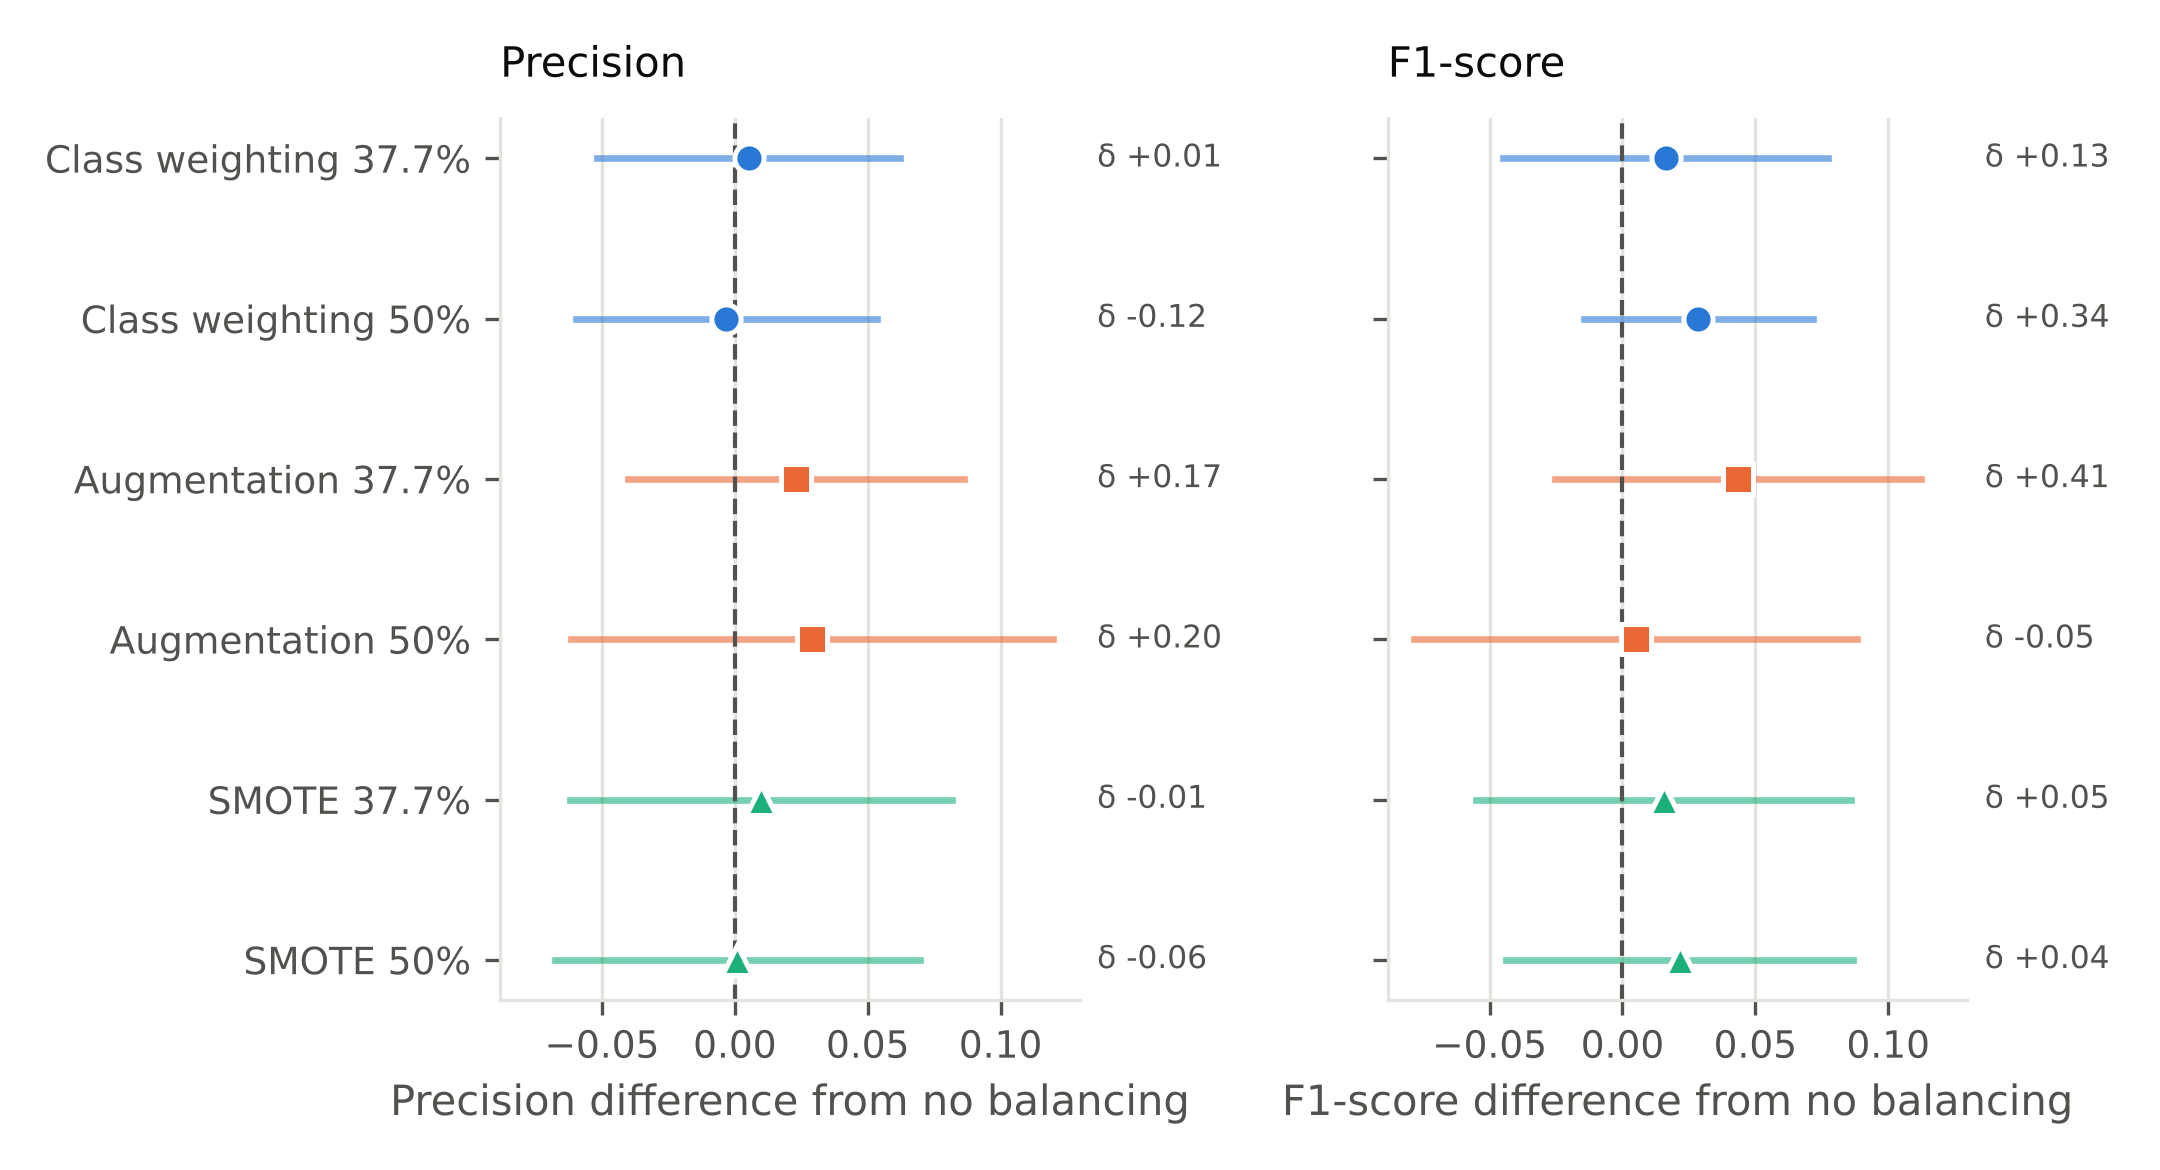
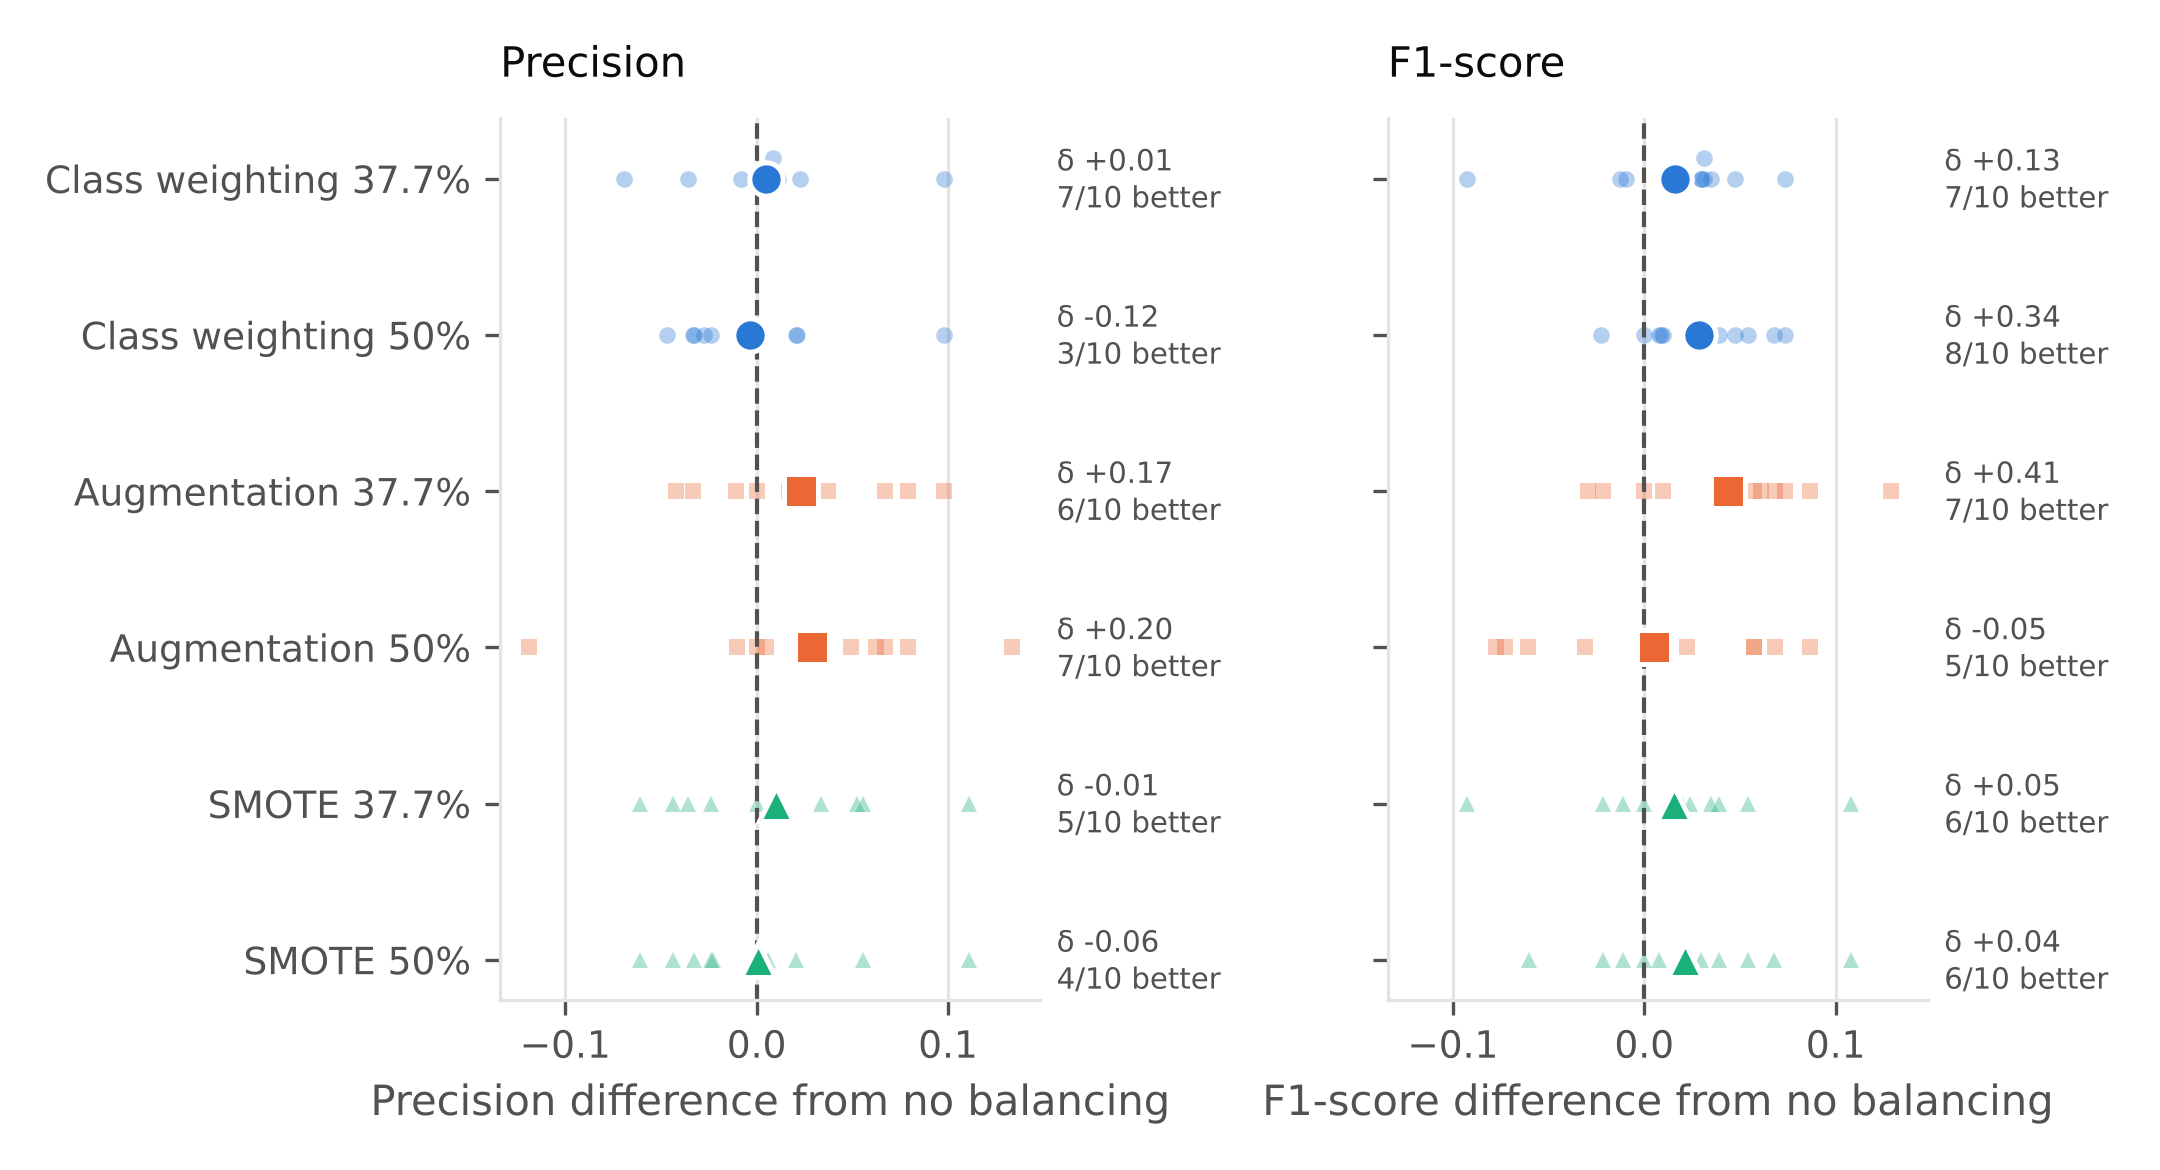
Stats figure: per-seed differences as faint markers instead of interval bars
Seeds better than no balancing are counted beside Cliff's delta and written to
results/main_stats.csv (better, worse, seeds); the corrected t-test intervals
and Holm p-values stay in the CSV.

Claude-Session: https://claude.ai/code/session_017rhwVyM5rhv5k17AN45Ux5

diff --git a/scripts/5_plots.py b/scripts/5_plots.py
@@ -9,7 +9,7 @@ Reads results/main_experiment.csv and results/main_loss.csv written by
   figures/figure9d_main_f1_projected.png           F1-score projected the same way
   figures/figure10a_main_precision_scenarios.png   precision of every scenario, one dot per seed
   figures/figure10b_main_f1_scenarios.png          F1-score of every scenario, one dot per seed
-  figures/figure11_main_stats.png                  each method minus no balancing, with the paired test
+  figures/figure11_main_stats.png                  each method minus no balancing per seed, with the paired test
   results/main_stats.csv                           the numbers behind figure 11
   figures/figure12_main_cost.png                   F1-score against training time per scenario
   figures/figure8_main_loss.png                    train loss per epoch of the 4- and 12-layer none runs
@@ -260,7 +260,8 @@ def paired_stats(rows, metric, k_train=280, k_test=70):
         delta = (sum(x > y for x in a for y in b) - sum(x < y for x in a for y in b)) / (n * n)
         out.append({"metric": metric, "scenario": scenario, "smell_pct": share, "name": name,
                     "mean_diff": mean, "ci_low": mean - half, "ci_high": mean + half, "p": p,
-                    "cliffs_delta": delta})
+                    "cliffs_delta": delta, "diffs": diffs, "better": sum(d > 0 for d in diffs),
+                    "worse": sum(d < 0 for d in diffs), "seeds": n})
     # Holm over the comparisons of this metric
     order = sorted(range(len(out)), key=lambda i: out[i]["p"])
     running = 0.0
@@ -278,10 +279,11 @@ def delta_size(delta):
 
 def plot_stats(rows, out, out_csv):
     """Difference from no balancing (4 layers, same seeds 0-9) for precision (left) and F1-score
-    (right): dot = mean difference, bar = 95% interval of the corrected resampled t-test, dashed
-    line = no difference; an interval that crosses zero means no significant difference. The
-    number beside each row is Cliff's delta; the Holm-adjusted p-values are in out_csv (all 1.00
-    in the paper's run, so the caption states them once instead of on every row)."""
+    (right): each seed's difference as a small faint marker, spread a little up and down where
+    seeds give the same difference, and the mean difference as the large marker; dashed line =
+    no difference. Beside each row: Cliff's delta and the number of seeds (of 10) where the
+    method beats no balancing. The 95% intervals of the corrected resampled t-test and the
+    Holm-adjusted p-values are in out_csv (all p_holm 1.00 in the paper's run)."""
     plt = setup()
     results = {m: paired_stats(rows, m) for m in ("precision", "f1")}
     fig, axes = plt.subplots(1, 2, figsize=(7.2, 3.9), sharey=True)
@@ -291,16 +293,23 @@ def plot_stats(rows, out, out_csv):
         res = results[metric]
         for y, r in enumerate(reversed(res)):
             color = colors[r["scenario"]]
-            ax.plot([r["ci_low"], r["ci_high"]], [y, y], color=color, linewidth=1.6, alpha=0.6)
-            ax.plot([r["mean_diff"]], [y], marker=markers[r["scenario"]], markersize=7, color=color,
+            # Seeds with the same difference are stacked up and down around the row
+            seen = {}
+            for d in r["diffs"]:
+                k = seen.get(round(d, 4), 0)
+                seen[round(d, 4)] = k + 1
+                offset = (k + 1) // 2 * 0.13 * (1 if k % 2 else -1)
+                ax.plot([d], [y + offset], marker=markers[r["scenario"]], markersize=4, color=color,
+                        alpha=0.35, markeredgewidth=0, linestyle="none", zorder=2)
+            ax.plot([r["mean_diff"]], [y], marker=markers[r["scenario"]], markersize=8, color=color,
                     markeredgecolor="white", markeredgewidth=1.2, linestyle="none", zorder=3)
-            ax.text(1.03, y, f"\u03b4 {r['cliffs_delta']:+.2f}",
-                    transform=ax.get_yaxis_transform(), fontsize=7.5, color=MUTED, va="center")
+            ax.text(1.03, y, f"\u03b4 {r['cliffs_delta']:+.2f}\n{r['better']}/{r['seeds']} better",
+                    transform=ax.get_yaxis_transform(), fontsize=7, color=MUTED, va="center", linespacing=1.3)
         ax.axvline(0, color=MUTED, linestyle="--", linewidth=1)
         # One x range for both panels, so a difference reads the same on the left and the right
-        low = min(r["ci_low"] for m in results for r in results[m])
-        high = max(r["ci_high"] for m in results for r in results[m])
-        ax.set_xlim(low - 0.01, high + 0.01)
+        low = min(min(r["diffs"]) for m in results for r in results[m])
+        high = max(max(r["diffs"]) for m in results for r in results[m])
+        ax.set_xlim(low - 0.015, high + 0.015)
         ax.set_xlabel(f"{label} difference from no balancing", color=MUTED)
         style(ax, label, grid_axis="x")
     names = [r["name"] for r in reversed(results["precision"])]
@@ -312,7 +321,7 @@ def plot_stats(rows, out, out_csv):
     print(f"-> {out}")
     with open(out_csv, "w", newline="", encoding="utf-8") as f:
         cols = ["metric", "scenario", "smell_pct", "mean_diff", "ci_low", "ci_high", "p", "p_holm",
-                "cliffs_delta", "delta_size"]
+                "cliffs_delta", "better", "worse", "seeds", "delta_size"]
         writer = csv.DictWriter(f, fieldnames=cols)
         writer.writeheader()
         for metric in results:
